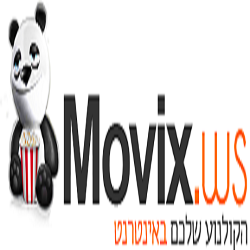
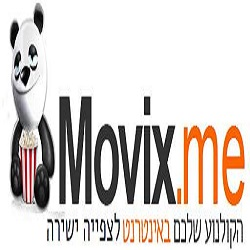
Movix.me v1.0.3
- Default domain change to http://www.movix.me
- You can choose filter search to "All", "Movies" or "Series".
- Added "Movies" and "Series" categories.
- Fix for "moovreel" and "filehoot" links

diff --git a/plugin.video.movixws/main.py b/plugin.video.movixws/main.py
@@ -11,16 +11,22 @@ print baseUrl
 autoPlay = __settings__.getSetting("autoPlay") == "true"
 
 def searchWs():
-			search_entered =''
-			keyboard = xbmc.Keyboard(search_entered, 'הכנס מילות חיפוש כאן')
-			keyboard.doModal()
-			if keyboard.isConfirmed():
-						search_entered = keyboard.getText()
+	dialog = xbmcgui.Dialog()
+	filter = dialog.select("בחר סוג חיפוש", ["הכל", "סרטים", "סדרות"])
+	search_entered =''
+	keyboard = xbmc.Keyboard(search_entered, 'הכנס מילות חיפוש כאן')
+	keyboard.doModal()
+	if keyboard.isConfirmed():
+		search_entered = keyboard.getText()
 
-			if search_entered !='' :
-				IndexPage('{0}/search_movies?q={1}'.format(baseUrl, search_entered))
-			else:
-				return
+	if search_entered !='' :
+		if filter == 1:
+			search_entered += "&sortby=movie"
+		elif filter == 2:
+			search_entered += "&sortby=tv-show"
+		IndexPage('{0}/search_movies?q={1}'.format(baseUrl, search_entered))
+	else:
+		return
 
 def IndexPage(url):
 	if  'search_movies' in url:
@@ -51,20 +57,64 @@ def IndexPage(url):
 				stop=True
 				addDir('[COLOR blue]'+'תוצאות נוספות'+'[/COLOR]',url,2,'',True,'')
 
-def OPEN_URL(url,referer=None,Host=None):
-    req = urllib2.Request(url)
-    req.add_header('User-Agent', 'Mozilla/5.0 (Windows; U; Windows NT 5.1; en-GB; rv:1.9.0.3) Gecko/2008092417 Firefox/3.0.3')
-    if referer:
-         req.add_header('Referer' ,referer)
-    if Host:
-        req.add_header('Host' ,Host)
-    response = urllib2.urlopen(req,timeout=100)
-    link=response.read()
-    response.close()
-    return link
+def OPEN_URL(url, headers={}, user_data={}, referer=None, Host=None):
+	link = ""
+	if user_data:
+		user_data = urllib.urlencode(user_data)
+		req = urllib2.Request(url, user_data)
+	else:
+		req = urllib2.Request(url)
+	req.add_header('User-Agent', 'Mozilla/5.0 (Windows; U; Windows NT 5.1; en-GB; rv:1.9.0.3) Gecko/2008092417 Firefox/3.0.3')
+	for k, v in headers.items():
+		req.add_header(k, v)
+	if referer:
+		req.add_header('Referer' ,referer)
+	if Host:
+		req.add_header('Host' ,Host)
+	try:
+		response = urllib2.urlopen(req,timeout=100)
+		link = response.read()
+		response.close()
+	except:
+		return None
+	return link
+
+def ResolveUrl(url, type):
+	link = None
+	if type == "filehoot":
+		url = url.replace("/embed-","/")
+		url = "{0}.html".format(url[:url.rfind('-')])
+		html = OPEN_URL(url)
+		id = re.compile("http://filehoot.com/(.*?).html", re.I+re.M+re.U+re.S).findall(url)
+		user_data = {'op':'download1','usr_login':'','id':id[0],'fname':'','referer':'','method_free':'Continue+to+watch+your+Video'}
+		html = OPEN_URL(url, user_data=user_data)
+		matches = re.compile("{file:'(.*?)'", re.I+re.M+re.U+re.S).findall(html)
+		if len(matches) > 0:
+			link = matches[0]
+	elif type == "goodvideohost":
+		url = url.replace("/embed-","/")
+		html = OPEN_URL(url)
+
+		url = re.compile('method="POST" action=\'(.*?)\'', re.I+re.M+re.U+re.S).findall(html)[0]
+		op =  re.compile('name="op" value="(.*?)"', re.I+re.M+re.U+re.S).findall(html)[0]
+		usr_login =  re.compile('name="usr_login" value="(.*?)"', re.I+re.M+re.U+re.S).findall(html)[0]
+		id = re.compile('name="id" value="(.*?)"', re.I+re.M+re.U+re.S).findall(html)[0]
+		fname =  re.compile('name="fname" value="(.*?)"', re.I+re.M+re.U+re.S).findall(html)[0]
+		referer =  re.compile('name="referer" value="(.*?)"', re.I+re.M+re.U+re.S).findall(html)[0]
+		hash = re.compile('name="hash" value="(.*?)"', re.I+re.M+re.U+re.S).findall(html)[0]
+		imhuman =  re.compile('name="imhuman" value="(.*?)"', re.I+re.M+re.U+re.S).findall(html)[0]
+		
+		#user_data = {'op':'download1','usr_login':'','id':id[0],'fname':'','referer':'','hash':hash[0],'imhuman':'Proceed+to+video'}
+		user_data = {'op':urllib.quote_plus(op),'usr_login':urllib.quote_plus(usr_login),'id':urllib.quote_plus(id),'fname':urllib.quote_plus(fname),'referer':urllib.quote_plus(referer),'hash':urllib.quote_plus(hash),'imhuman':urllib.quote_plus(imhuman)}
+		html = OPEN_URL(url, user_data=user_data)
+
+		matches = re.compile('{file:"(.*?)"', re.I+re.M+re.U+re.S).findall(html)
+		if len(matches) > 0:
+			link = matches[0]
+	return link
 
 def addDir(name,url,mode,iconimage,isFolder=True,description=''):
-	u=sys.argv[0]+"?url="+urllib.quote_plus(url)+"&mode="+str(mode)+"&name="+urllib.quote_plus(name)
+	u=sys.argv[0]+"?url="+urllib.quote_plus(url)+"&mode="+str(mode)+"&name="+urllib.quote_plus(name)+"&iconimage="+urllib.quote_plus(iconimage)
 	ok=True
 	liz=xbmcgui.ListItem(name, iconImage="DefaultFolder.png", thumbnailImage=iconimage)
 	liz.setInfo( type="Video", infoLabels={ "Title": name , "Plot": str(description)} )
@@ -86,7 +136,7 @@ def GetEpisodes(url):
 	for episode in matches:
 		addDir(name +'  '+episode[2],url+'&episodeid='+episode[1],4,url,True)
 
-def LinksPage(url):
+def LinksPage(url, iconimage):
 	result=OPEN_URL(url)
 	if  not 'get_seasons' in result:
 		matches=re.compile('id="wrapserv"><a href="(.*?)" target=.*?src="\/img\/servers\/(.*?).png',re.I+re.M+re.U+re.S).findall(result)
@@ -94,31 +144,39 @@ def LinksPage(url):
 			playingUrlsList = []
 			for match in matches:
 				playingUrlsList.append(match[0])
-			addDir('צפיה ב'+name,json.dumps(playingUrlsList),7,'',False)
+			addDir('צפיה ב-"{0}"'.format(name), json.dumps(playingUrlsList), 7, iconimage, False)
 		else:
 			addDir('[COLOR red]'+'   בחר מקור לניגון, אם לא עובד נסה אחר '+'[/COLOR]','99',99,'',False)
 			for match in matches:
-				addDir(name +'  '+match[1],match[0],5,'',False)
+				addDir(name +'  '+match[1],match[0],5,iconimage,False)
 	else:
 		series_num=url.split('-')[-1]
 		GetSeasons(series_num)
-		
+
 def PlayWs(url):
 	result=OPEN_URL(url)
 	matches=re.compile('<IFRAME SRC="http:(.*?)" FRAMEBORDER',re.I+re.M+re.U+re.S).findall(result)
-	item=urlresolver.HostedMediaFile('http:'+matches[0])
-	new_url = urlresolver.resolve(item.get_url())
+	url = 'http:{0}'.format(matches[0])
+	if "filehoot" in url:
+		new_url = ResolveUrl(url, "filehoot")
+	elif "goodvideohost" in url:
+		#new_url = ResolveUrl(url, "goodvideohost")
+		new_url = None
+	else:
+		if "movreel" in url:
+			url = url.replace("/embed-","/")
+		item=urlresolver.HostedMediaFile(url)
+		new_url = urlresolver.resolve(item.get_url())
 	if new_url:
-		listitem = xbmcgui.ListItem(name, iconImage='', thumbnailImage='')
-		listitem.setPath(new_url)
+		listitem = xbmcgui.ListItem(path=new_url)
 		xbmcplugin.setResolvedUrl(int(sys.argv[1]), True, listitem)
 		return True
 	else:
 		if not autoPlay:
 			dialog = xbmcgui.Dialog()
-			ok = dialog.ok('OOOPS', 'Try  a differnt Source')	
+			ok = dialog.ok('OOOPS', 'Try a differnt Source')	
 		return False
-		
+
 def AutoPlayUrl(urls):
 	playingUrlsList = json.loads(urls)
 	random.seed()
@@ -128,62 +186,69 @@ def AutoPlayUrl(urls):
 			return
 	dialog = xbmcgui.Dialog()
 	ok = dialog.ok('OOOPS', 'לא נמצאו מקורות זמינים לניגון')
-			
+
 def Categories():
 	addDir("Search - חפש"," ",6,'https://encrypted-tbn1.gstatic.com/images?q=tbn:ANd9GcQlAUVuxDFwhHYzmwfhcUEBgQXkkWi5XnM4ZyKxGecol952w-Rp')
-	addDir("kids   ילדים","{0}/genres/Kids".format(baseUrl),2,'http://www.in-hebrew.co.il/images/logo-s.jpg')
-	addDir("אנימציה","{0}/genres/Animation".format(baseUrl),2,'http://icons.iconarchive.com/icons/designbolts/free-movie-folder/256/Animated-icon.png')
-	addDir("משפחה","{0}/genres/Family".format(baseUrl),2,'http://pschools.haifanet.org.il/dror/DocLib1/%D7%99%D7%95%D7%9D%20%D7%9E%D7%A9%D7%A4%D7%97%D7%94%20%D7%A9%D7%9E%D7%97.jpg')
-	addDir("פנטזיה","{0}/genres/Fantasy".format(baseUrl),2,'http://blog.tapuz.co.il/girlkido/images/3472680_852.jpg')
-	addDir("קומדיה","{0}/genres/Comedy".format(baseUrl),2,'http://www.filmsite.org/images/comedy-genre.jpg')
-	addDir("פשע","{0}/genres/Crime".format(baseUrl),2,'http://drthurstone.com/wp-content/uploads/2014/07/Crime-Pix.jpg')
-	addDir("דרמה","{0}/genres/Drama".format(baseUrl),2,'http://comps.canstockphoto.com/can-stock-photo_csp11392197.jpg')
-	addDir("מיסתורין","{0}/genres/Mystery".format(baseUrl),2,'http://www.barronmind.com/WMHlogoweb.gif')
-	addDir("מתח","{0}/genres/Thriller".format(baseUrl),2,'http://becplmovies.files.wordpress.com/2011/06/thrillers_title12.jpg')
-	addDir("אימה","{0}/genres/Horror".format(baseUrl),2,'https://cdn4.iconfinder.com/data/icons/desktop-halloween/256/Mask.png')
-	addDir("מלחמה","{0}/genres/War".format(baseUrl),2,'http://cdn2.pitchfork.com/news/53502/0ff1bba7.jpg')
-	addDir("דוקומנטרי","{0}/genres/Documentary".format(baseUrl),2,'http://icons.iconarchive.com/icons/aaron-sinuhe/tv-movie-folder/512/Documentaries-National-Geographic-icon.png')
-	addDir("ישראלי","{0}/genres/israeli".format(baseUrl),2,'http://upload.wikimedia.org/wikipedia/commons/thumb/d/d4/Flag_of_Israel.svg/250px-Flag_of_Israel.svg.png')
-	addDir("פעולה","{0}/genres/Action".format(baseUrl),2,'http://pmtips.net/wp-content/uploads/2012/02/action.jpg')
-	addDir("מ.בדיוני","{0}/genres/Sci-Fi".format(baseUrl),2,'http://images.clipartpanda.com/sci-fi-clipart-peacealienbw.png')
+	addDir("Movies - סרטים","{0}/movies".format(baseUrl),2,'http://www.aldeahostelcostarica.com/wp-content/uploads/2015/03/aldea_movie_day-500x300.jpg')
+	addDir("Series - סדרות","{0}/series".format(baseUrl),2,'http://kibenterprise.com/media/catalog/category/TV_Series.png')
+	addDir("Kids - ילדים","{0}/genres/Kids".format(baseUrl),2,'http://www.in-hebrew.co.il/images/logo-s.jpg')
+	addDir("Animation - אנימציה","{0}/genres/Animation".format(baseUrl),2,'http://icons.iconarchive.com/icons/designbolts/free-movie-folder/256/Animated-icon.png')
+	addDir("Fantasy - פנטזיה","{0}/genres/Fantasy".format(baseUrl),2,'http://blog.tapuz.co.il/girlkido/images/3472680_852.jpg')
+	addDir("Family - משפחה","{0}/genres/Family".format(baseUrl),2,'http://pschools.haifanet.org.il/dror/DocLib1/%D7%99%D7%95%D7%9D%20%D7%9E%D7%A9%D7%A4%D7%97%D7%94%20%D7%A9%D7%9E%D7%97.jpg')
+	addDir("Israeli - ישראלי","{0}/genres/israeli".format(baseUrl),2,'http://upload.wikimedia.org/wikipedia/commons/thumb/d/d4/Flag_of_Israel.svg/250px-Flag_of_Israel.svg.png')
+	addDir("Comedy - קומדיה","{0}/genres/Comedy".format(baseUrl),2,'http://www.filmsite.org/images/comedy-genre.jpg')
+	addDir("Drama - דרמה","{0}/genres/Drama".format(baseUrl),2,'http://comps.canstockphoto.com/can-stock-photo_csp11392197.jpg')
+	addDir("Documentary - דוקומנטרי","{0}/genres/Documentary".format(baseUrl),2,'http://icons.iconarchive.com/icons/aaron-sinuhe/tv-movie-folder/512/Documentaries-National-Geographic-icon.png')
+	addDir("Action - פעולה","{0}/genres/Action".format(baseUrl),2,'http://pmtips.net/wp-content/uploads/2012/02/action.jpg')
+	addDir("Crime - פשע","{0}/genres/Crime".format(baseUrl),2,'http://drthurstone.com/wp-content/uploads/2014/07/Crime-Pix.jpg')
+	addDir("Thriller - מתח","{0}/genres/Thriller".format(baseUrl),2,'http://becplmovies.files.wordpress.com/2011/06/thrillers_title12.jpg')
+	addDir("War - מלחמה","{0}/genres/War".format(baseUrl),2,'http://cdn2.pitchfork.com/news/53502/0ff1bba7.jpg')
+	addDir("Mystery - מיסתורין","{0}/genres/Mystery".format(baseUrl),2,'http://www.barronmind.com/WMHlogoweb.gif')
+	addDir("Horror - אימה","{0}/genres/Horror".format(baseUrl),2,'https://cdn4.iconfinder.com/data/icons/desktop-halloween/256/Mask.png')
+	addDir("Sci-Fi - מ.בדיוני","{0}/genres/Sci-Fi".format(baseUrl),2,'http://images.clipartpanda.com/sci-fi-clipart-peacealienbw.png')
 	xbmc.executebuiltin('Container.SetViewMode(500)')
-	
+
 def get_params():
-        param=[]
-        paramstring=sys.argv[2]
-        if len(paramstring)>=2:
-                params=sys.argv[2]
-                cleanedparams=params.replace('?','')
-                if (params[len(params)-1]=='/'):
-                        params=params[0:len(params)-2]
-                pairsofparams=cleanedparams.split('&')
-                param={}
-                for i in range(len(pairsofparams)):
-                        splitparams={}
-                        splitparams=pairsofparams[i].split('=')
-                        if (len(splitparams))==2:
-                                param[splitparams[0]]=splitparams[1]
-                                
-        return param
-  
-    
+	param=[]
+	paramstring=sys.argv[2]
+	if len(paramstring)>=2:
+		params=sys.argv[2]
+		cleanedparams=params.replace('?','')
+		if (params[len(params)-1]=='/'):
+			params=params[0:len(params)-2]
+		pairsofparams=cleanedparams.split('&')
+		param={}
+		for i in range(len(pairsofparams)):
+			splitparams={}
+			splitparams=pairsofparams[i].split('=')
+			if (len(splitparams))==2:
+				param[splitparams[0]]=splitparams[1]
+							
+	return param
+
+
 params=get_params()
 url=None
 name=None
 mode=None
 
 try:
-        url=urllib.unquote_plus(params["url"])
+	url=urllib.unquote_plus(params["url"])
 except:
-        pass
+	pass
 try:
-        name=urllib.unquote_plus(params["name"])
+	name=urllib.unquote_plus(params["name"])
 except:
-        pass
+	pass
 try:
-        mode=int(params["mode"])
+	mode=int(params["mode"])
 except:
-        pass
+	pass
+try:
+	iconimage=urllib.unquote_plus(params["iconimage"])
+except:
+	pass
+	
 
 print "checkMode: "+str(mode)
 print "URL: "+str(url)
@@ -197,7 +262,7 @@ elif mode==2:
 elif mode==3:
 	GetEpisodes(url)
 elif mode==4:
-	LinksPage(url)
+	LinksPage(url, iconimage)
 elif mode==5:
 	PlayWs(url)
 elif mode==6:
